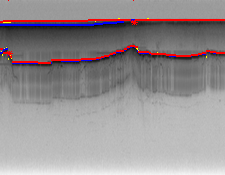
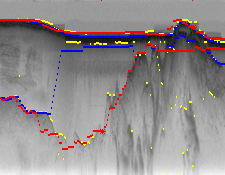
merged readme for part2 and 3

diff --git a/readme.md b/readme.md
@@ -1,0 +1,123 @@
+# Part 2: Horizon Detection
+
+## A description of how you formulated the search problem
+The problem has 3 subparts in it. First part focuses on using a very simple bayes net to get air-ice and ice-rock boundaries. As per the bayes net for part 1, we just found the maximum value of edge strength for each column. The results from simple bayes were bad and the points were scattered around on the image. To improve upon this, we used a Hidden Markov Model as suggested in part2. We used viterbi algorithm to solve maximum a posteriori estimate. For Viterbi, we need initial, emission and transition probabilities. We calculated initial probabilities from edge strength of first column. For emission probabilities, we divided edge strength with original pixels. For transition probabilities, we considered cost of moving from row of one column to row of the next column. The transitions to the nearest row from the current row will have the lowest cost and the transition to the farthest row will have the highest cost. Using this algorithm, we got better results than bayes. For part3, we incorporate human feedback to improve our viterbi logic. Here we have a point that already belongs on the boundary. For this part, we used viterbi in two directions, from point to the left of the point till we reach the first column and from point to right of point till be reach the last column. This approach gives the best results for all images.
+
+## A brief description of how your program works
+For the first part of the problem, we just find the maximum edge strength of each column. For the second part, we use Hidden Markov model to find better boundaries than in part1. We use Viterbi algorithm for this. The code traverses through each column and computes sum of previous state cost with transition cost from previous to current state. We use dynamic programming to store the row number with minimum cost of the previous column.  For part3, the coordinated given by user are fed into viterbi algorithm which performs a bi-directional search to find the most probable point for each column. We set the exact pixel of human input as -np.log(1), while we give the other points on the same column a cost of Infinity. 
+
+## Problems faced, assumptions, simplifications and design decisions
+One design decision problem we had to make was about transition probabilities. We modelled transition probability based on distance from the current row. So, as distance increases, probability decreases. We compute transition probabilities based on two functions. If, the distance between current row and the previous row is less than or equal to 6 (11 pixels of the other column), than we calculate cost using -np.log(1|(dist+1)). If the distance is >6, we calculate the cost as -np.log((1|(2^(dist+1)))^2). So, we linearly decrease the probability for 11 nearby rows and then we jump to an exponential decrease in probability. For emission probabilities, we divided edge strength with image's raw pixels and then normaised the values. We also tried using only edge strength normalised over sum of edge strength for each column. Both yeild similar looking boundaries. 
+
+## Experiments with transition and emission probabilities
+For transition probabilities, we tried using some other approaches apart from the one mentioned above. We experimented with using only a linear decrease in probability like 1|(dist+1). But this yeilded in very poor boundary choices as it won't penalise farther away states too much. We also tried increasing the power of dist by 1.2, 1.4, 1.6 ,.... so the probabilities would look like, 1|(dist^1+1), 1|(dist^1.2+1), 
+1|(dist^1.4+1), 1|(dist^1.4+1), ... but the effort was too much to find a proper interval range for each of the probability and so we decided on using the one discussed in the above section.
+
+
+## Example outputs 
+
+### Image 09
+
+Air Ice Bayes:
+
+![Air Ice Simple Bayes](./part2/bayes/air_ice_output09.png)
+
+
+Ice Rock Bayes:
+
+![Ice Rock Simple Bayes](./part2/bayes/ice_rock_output09.png)
+
+Air Ice HMM:
+
+![Air Ice HMM](./part2/hmm/air_ice_output09.png)
+
+
+Ice Rock HMM:
+
+![Ice Rock HMM](./part2/hmm/ice_rock_output09.png)
+
+Air Ice Human:
+
+![Air Ice Human](./part2/human/air_ice_output09.png)
+
+
+Ice Rock Human:
+
+![Ice Rock Human](./part2/human/ice_rock_output09.png)
+
+
+### Image 16 
+
+Air Ice Bayes:
+
+![Air Ice Simple Bayes](./part2/bayes/air_ice_output16.png)
+
+Ice Rock Bayes:
+
+![Ice Rock Simple Bayes](./part2/bayes/ice_rock_output16.png)
+
+Air Ice HMM:
+
+![Air Ice HMM](./part2/hmm/air_ice_output16.png)
+
+Ice Rock HMM:
+
+![Ice Rock HMM](./part2/hmm/ice_rock_output16.png)
+
+Air Ice Human:
+
+![Air Ice Human](./part2/human/air_ice_output16.png)
+
+
+Ice Rock Human:
+
+![Ice Rock Human](./part2/human/ice_rock_output16.png)
+
+
+### Image 23
+
+Air Ice Bayes:
+
+![Air Ice Simple Bayes](./part2/bayes/air_ice_output23.png)
+
+Ice Rock Bayes:
+
+![Ice Rock Simple Bayes](./part2/bayes/ice_rock_output23.png)
+
+Air Ice HMM:
+
+![Air Ice HMM](./part2/hmm/air_ice_output23.png)
+
+Ice Rock HMM:
+
+![Ice Rock HMM](./part2/hmm/ice_rock_output23.png)
+
+Air Ice Human:
+
+![Air Ice Human](./part2/human/air_ice_output23.png)
+
+Ice Rock Human:
+
+![Ice Rock Human](./part2/human/ice_rock_output23.png)
+
+# Part 3: Optical Character Recognition
+
+## A description of how you formulated the search problem
+This problem has two subparts: First part where we are asked to implement OCR using bayes algorithm and the second part where we are asked to implement OCR using Viterbi Algorithm. For the bayes, we used only emission probability to calculate the maximum values from all possible outcomes, comparing all 72 outcomes. Though the result was great, it was struggling in some cases where there was too much noise in the image. In the second part we implemented Viterbi Algorithm and we took the max value of Emission, Transition and Initial Probabilities and the results were slighly better as transition probability was allowing the algorithm to pick the most common sequences of letters.
+
+### Emission Probability
+Emission probability was calculated by comparing each and every pixel and checking number of pixels where there was "*" in trainining data and in test letters and checking number of pixels where the pixel was " " in both train and test letters. Then, we decided to give more priority to former and after trying some possible combinations of values, we finally finalized to choose 0.9 where "*" matched and 0.1 where "blank" matched. We stored all values in a dictionary and stored it using index values as keys.
+The count was calculated this way and then we calculated probability using modified laplace smoothing. I had to add 1 in numerator because some values were remaining zero.
+
+### Transition Probability
+Transition Probability was calcualted by iterating over the whole text string starting from the 1st letter as we would be checking the letter before that to compute the count of the current letter occuring after the previous letter. From this, we calculated the probability using Laplace smoothing.
+
+### Initial Probability
+Initial count was calculated by taking the count of the first letter from each sentence from "bc.train" file. From this, the initial probability was calculated by Laplace smoothing.
+
+## A brief description of how your program works
+For the bayes algorithm, we simply calculated the emission probability and returned the max values for each letter. For the Viterbi Algorithm, we calculated Emission, Initial and Transition probability and we took log of them and took sum because `log(a*b) = log(a) + log(b)`. The reason why we took log was because the values were underflowing as we iterated over few letter/observed states. Then we created two matrices: one to store the probabiliy and second to store the path which would help us to backtrack and calculate the maximum cost path. In probability matrix, we stored the `max` values and in the backtrack matrix, we stored index of the path that we chose for the best path using `argmax`. In Viterbi, for the first letter, we only used Emission and Initial Probabiliy and stored the values inside the probability matrix and for the backtrack matrix, we just stored the hidden state/letter as it is the first letter of the sentence. For the rest of the letters, we used all three probabilities to calculate the maximum value. Once iteration was over, we backtracked from the last letter/observed state to the first letter to find the optimal math. 
+
+## Problems faced, assumptions, simplifications and design decisions
+The major decision we had to make was optimizing the viterbi algorithm as results we were getting were not good especially when there was a noisy image. Also, the training set we used was `bc.train` and the transition probability was sometimes messing up the result and giving dump values. So we had to make a decision to multiply the value that we get from the transition probability with 0.01 as that would make it significance less and it was surprisingly giving me good results and improving the result that we got from bayes. The same thing was happening with initial probabilities as well as some letter were correctly selected in bayes but in viterbi, it slighly relied on initial probabilities more. Especially for letter such as "T","I",etc. So we had to multiply it with the 0.01 value to make its value less significant. We believe it is because we are using laplace smoothing, it would bring values closer to each other. 
+
